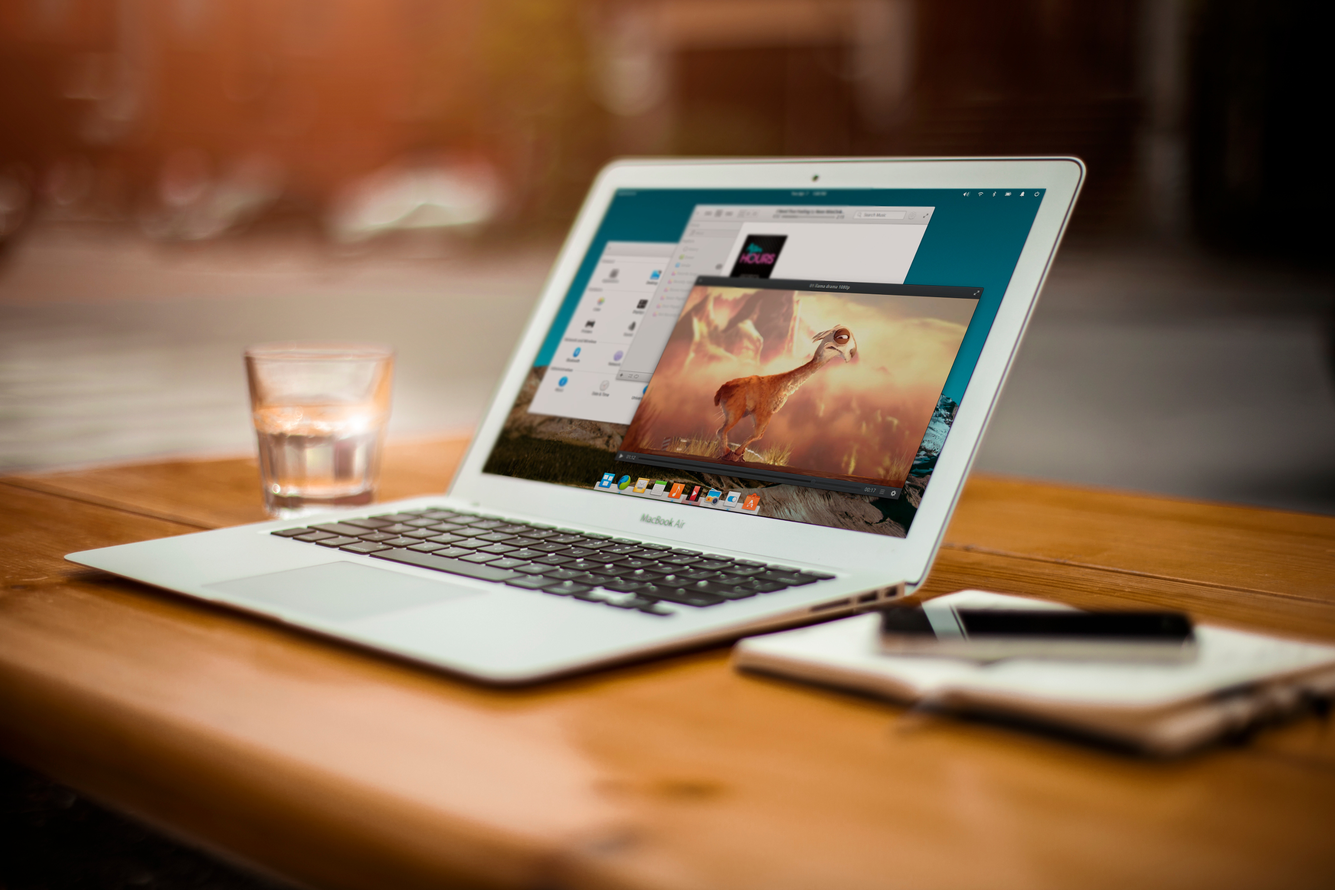
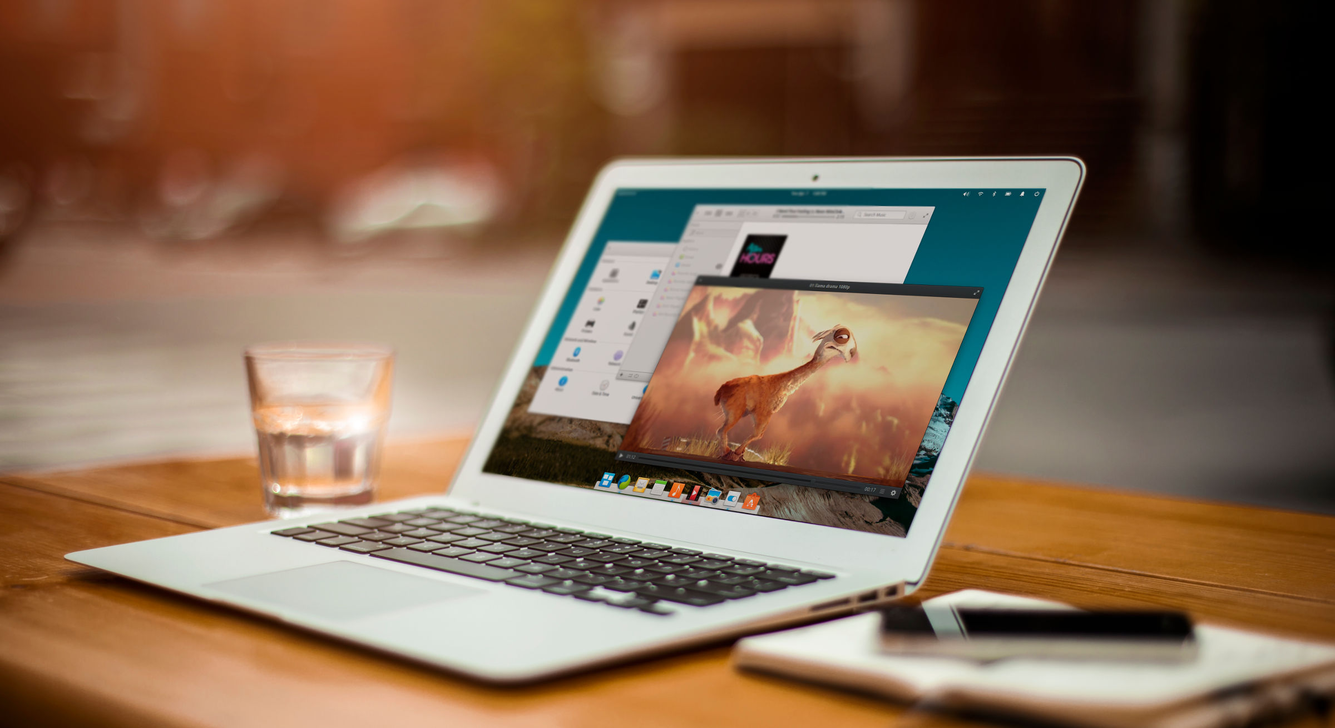
Updated hero background & tweaked layout

diff --git a/styles/home.css b/styles/home.css
@@ -8,13 +8,26 @@
     padding: 64px 0;
     min-height: 101vh;
     background-color: #eee;
-    background-image: url("../images/screenshots/laptop.jpg");
+    background: url("../images/screenshots/laptop.jpg") left;
     background-size: cover;
     color: #fff;
     text-shadow: 0 1px 1px rgba(0,0,0,0.3);
+    transition: all 300ms ease-in;
 }
 
-#hero #logotype svg path {
+@media only screen and (max-width : 520px) {
+    #hero {
+        min-height: 60vh;
+        transition: all 300ms ease-in;
+    }
+}
+
+
+#logotype {
+    margin-top: 10%;
+}
+
+#logotype svg path {
     fill: #fff;
 }
 
@@ -24,6 +37,7 @@ nav .nav-content > ul > li > a:visited {
     padding: 0 6px;
     color: #fff;
     fill: #fff;
+    text-shadow: 0 1px 1px rgba(0,0,0,0.3);
     opacity: 0.8;
     display: inline-block;
 }
@@ -33,9 +47,8 @@ nav .nav-content > ul > li > a:visited {
     color: #333;
     text-shadow:0 1px rgba(255,255,255,0.4);
     padding: 12px;
-    margin: 12px;
     max-width: 380px;
-    margin:0 auto;
+    margin:48px auto;
     overflow: auto;
     border-radius: 3px;
     box-shadow: inset 1px 0 0 0 rgba(255, 255, 255, 0.20),

diff --git a/index.php b/index.php
@@ -23,12 +23,7 @@
                         ?>
 
                     </div>
-                    <h4>A fast and open replacement for Windows and OS X</h4>
-                </div>
-
-                <!-- <img class="hero" src="images/notebook.png"> -->
-
-                <div class="row">
+                    <h3>A fast and open replacement for Windows and OS X</h3>
                     <div class="button-container">
                         <div id="amounts">
                             <?php
